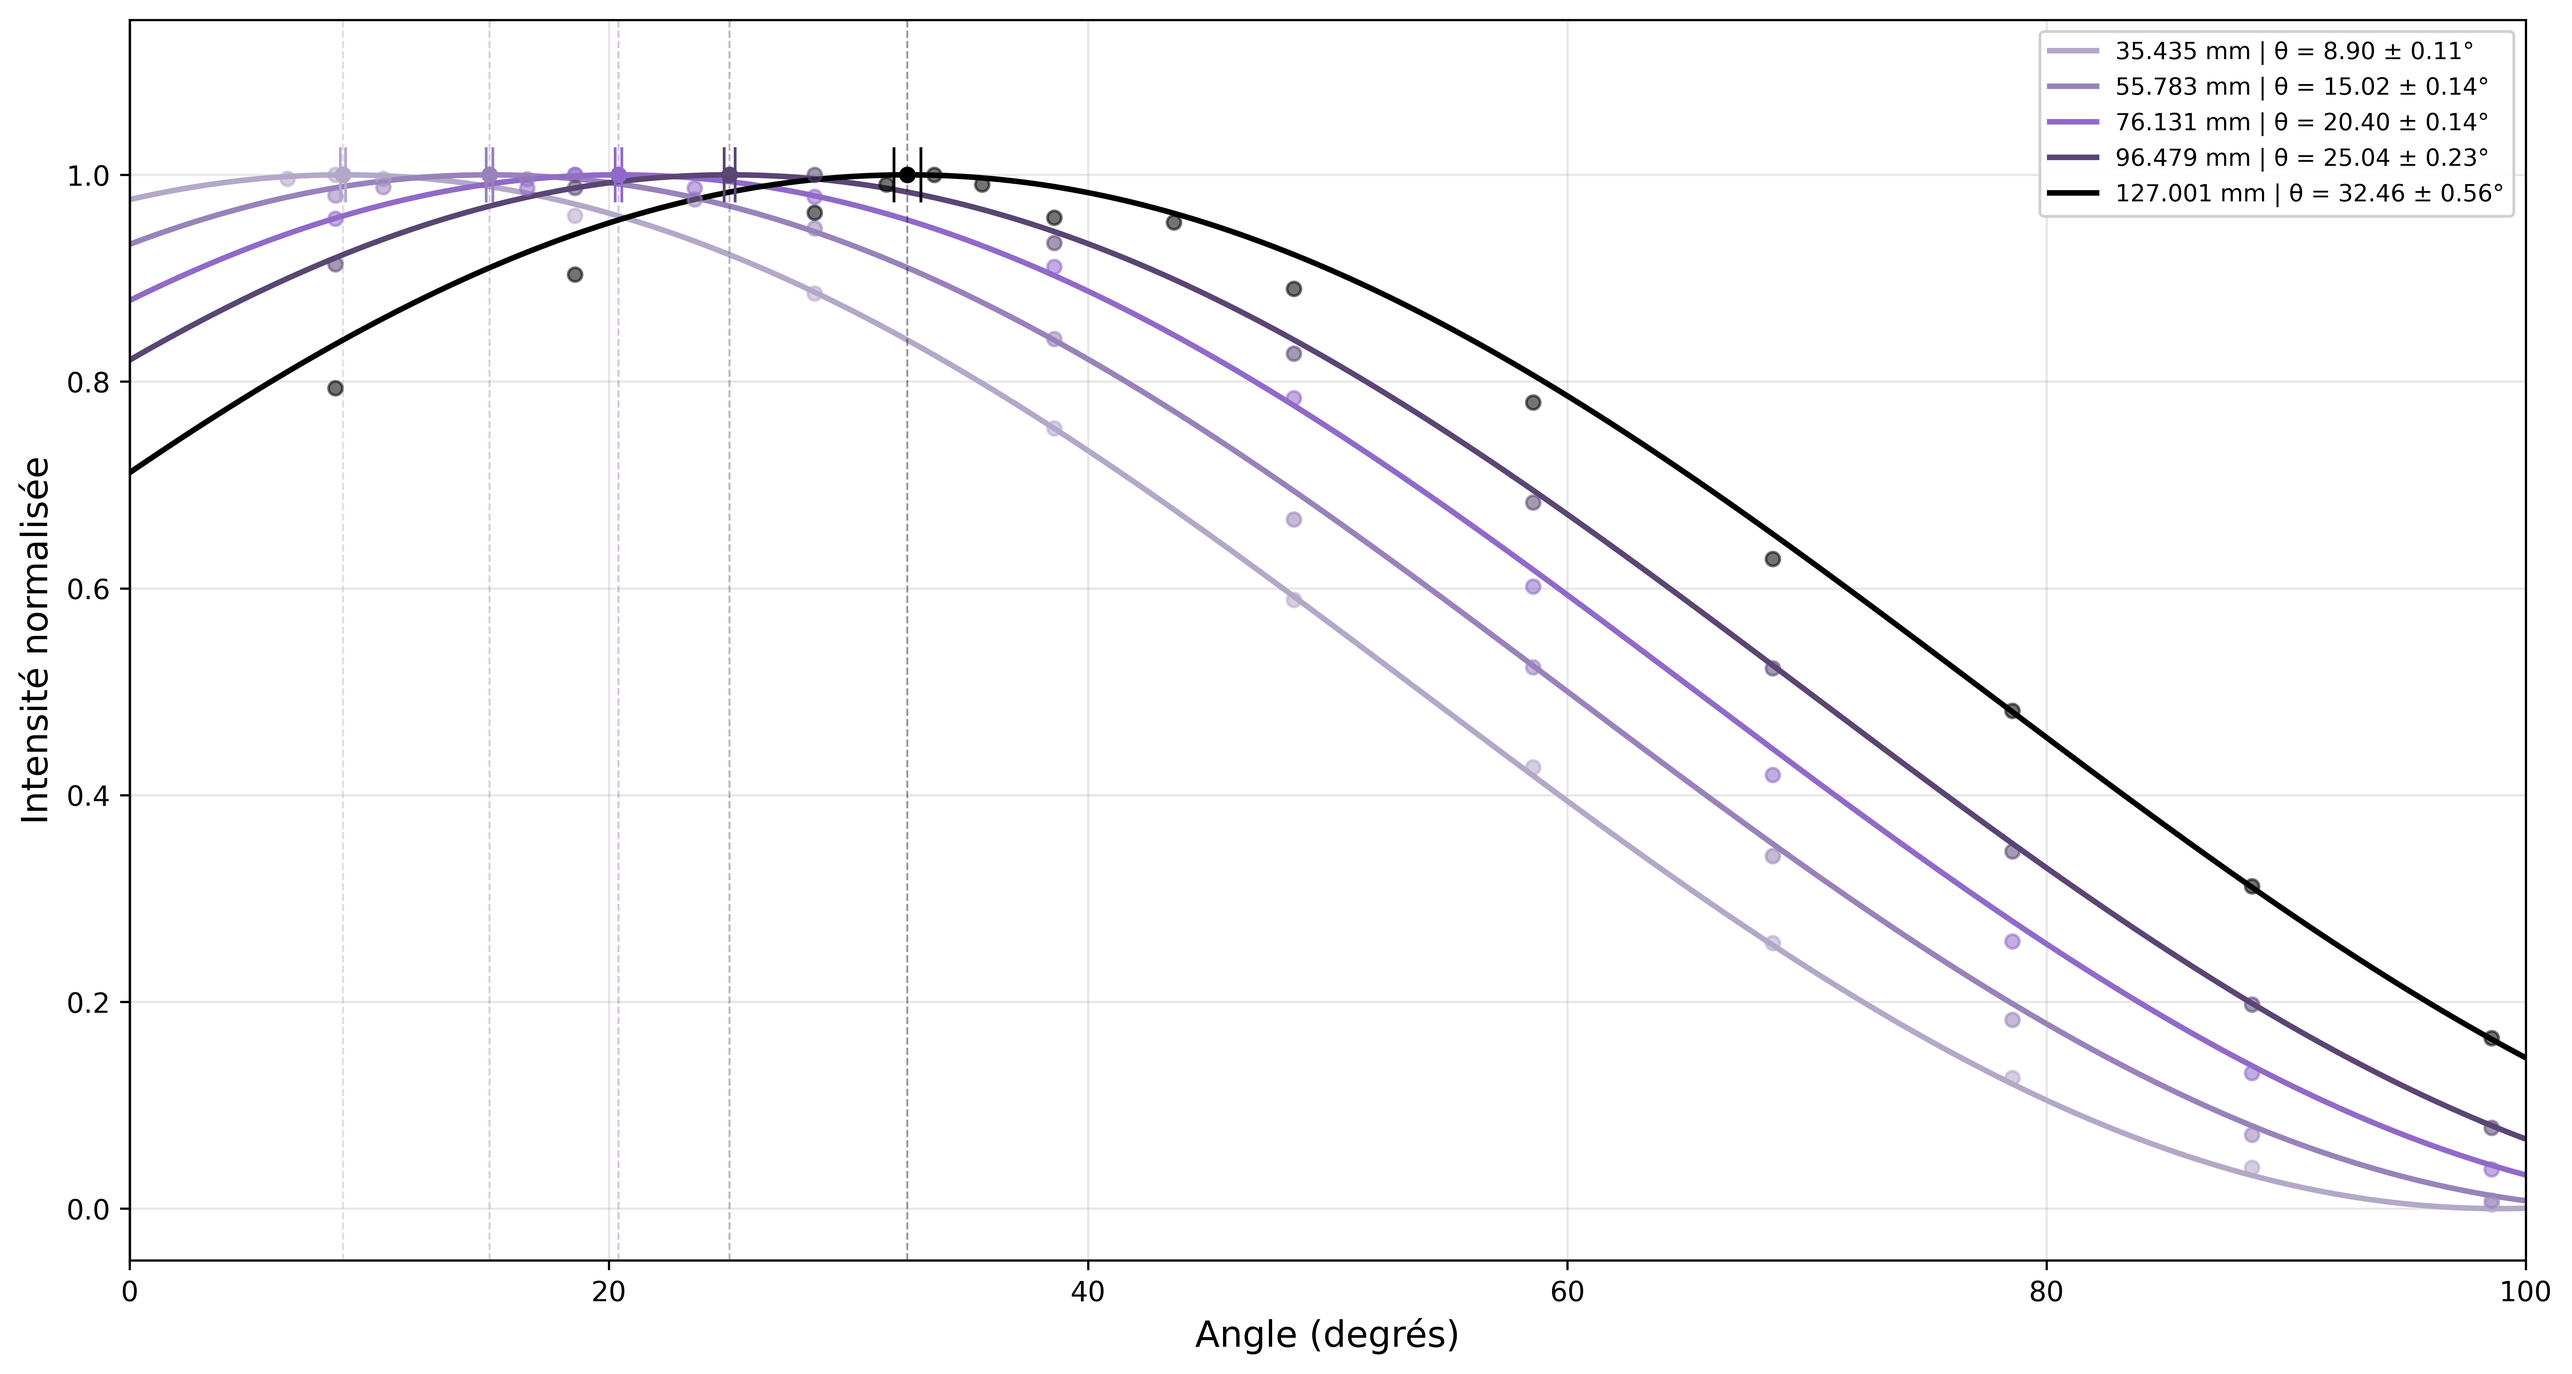
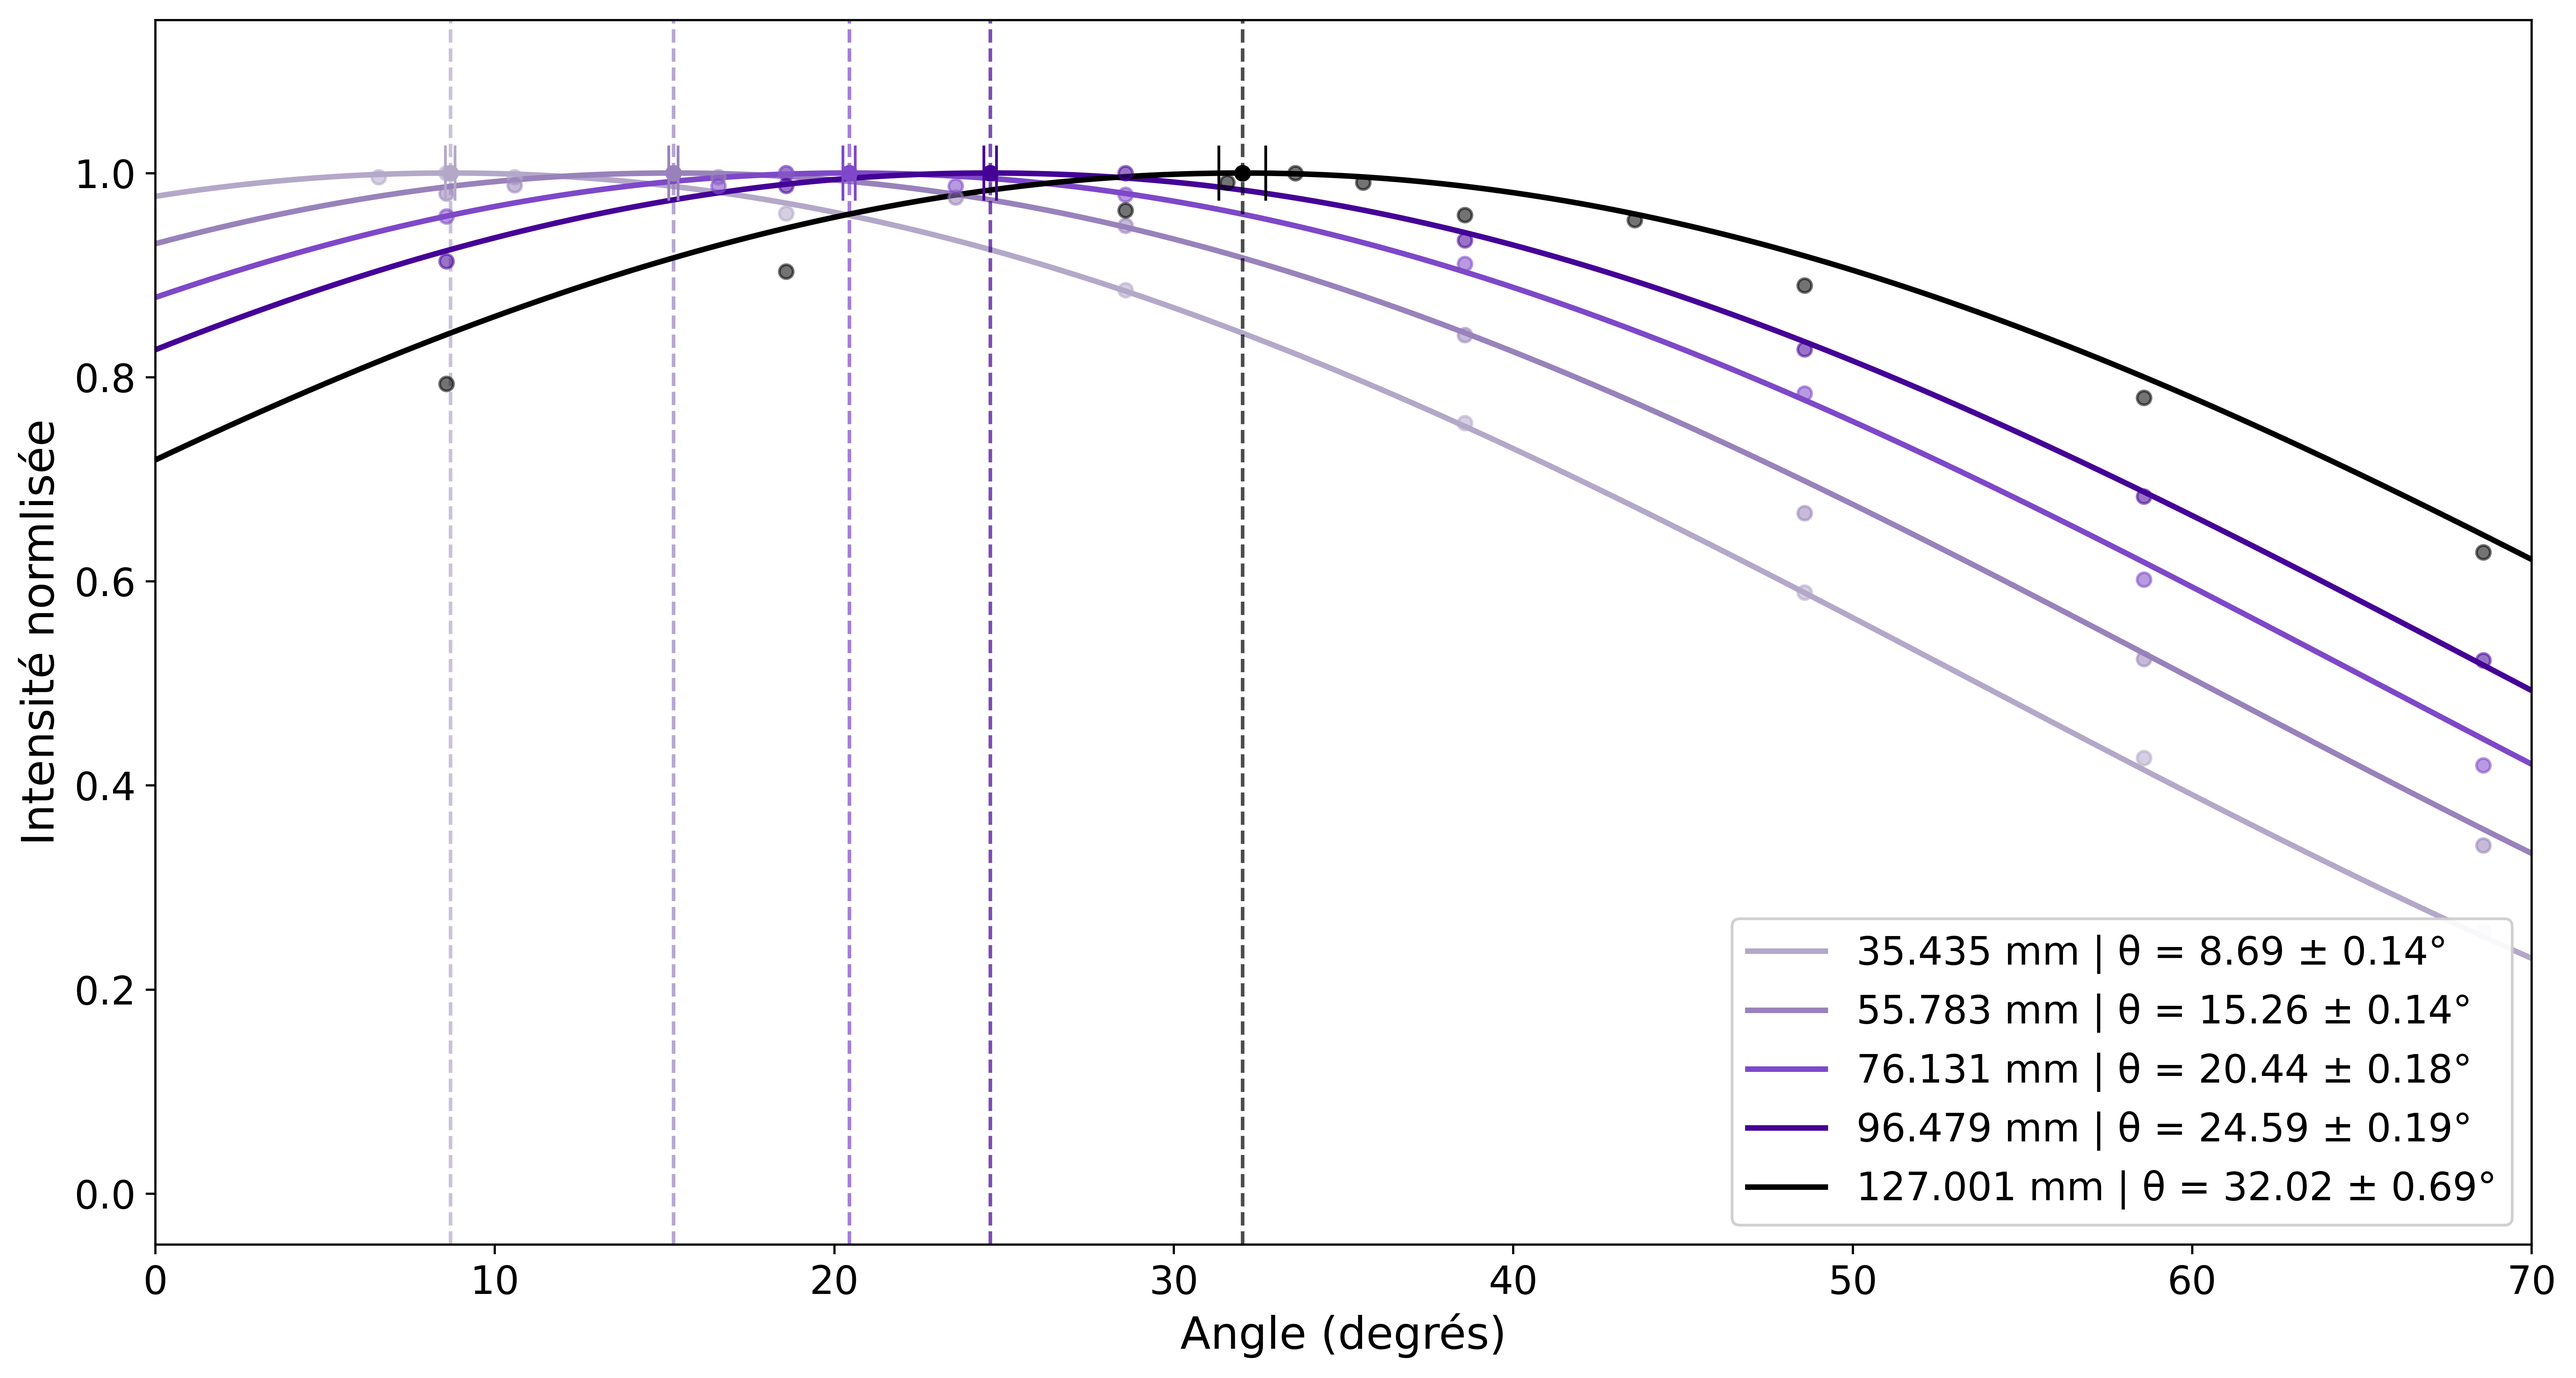
modifs esthetiques

diff --git a/Projet_2/glucose_comparaison.py b/Projet_2/glucose_comparaison.py
@@ -9,12 +9,12 @@ from scipy.optimize import curve_fit
 # ============================================================
 theta_zero = 67.42
 ANGLE_MIN  = 0
-ANGLE_MAX  = 100
+ANGLE_MAX  = 70
 sheet_name = "Essai1"
 longueur   = ["35.435 mm", "55.783 mm", "76.131 mm", "96.479 mm", "127.001 mm"]
 results    = []
 
-vec_col = ["#B4A8C9", "#9982BB", "#916AC9", "#5A4574", '#000000']
+vec_col = ["#B4A8C9", "#9982BB", "#7E48C9", "#450297", '#000000', "#FF5733"]
 
 # ============================================================
 # CHARGEMENT
@@ -131,19 +131,26 @@ for i, col in enumerate(longueur):
     y_smooth = sinusoidal_phi_only(x_smooth, phi)
 
     ax.plot(
-        x_smooth, y_smooth,
-        color=vec_col[i], linewidth=2,
-        label=f"{col} | θ = {x_max:.2f} ± {sigma_theta:.2f}°"
-    )
+            x_smooth,
+            y_smooth,
+            color=vec_col[i],
+            linewidth=2,
+            label=f"{col} | θ = {x_max:.2f} ± {sigma_theta:.2f}°"
+        )
 
-    ax.axvline(x_max, color=vec_col[i], linestyle='--', linewidth=0.7, alpha=0.4)
+    ax.axvline(x_max, color=vec_col[i], linestyle='--', linewidth=1.3, alpha=0.7)
 
+        # barres d'erreur
     ax.errorbar(
-        x_max, 1.0,
-        xerr=sigma_theta,
-        fmt='o', color=vec_col[i],
-        capsize=10, markersize=5, zorder=10
-    )
+            x_max,
+            1.0,
+            xerr=sigma_theta,
+            fmt='o',
+            color=vec_col[i],
+            capsize=10,
+            markersize=5,
+            zorder=10
+        )
 
     print(f"{col} | θ = {x_max:.2f} ± {sigma_theta:.2f}°")
     results.append({
@@ -155,13 +162,12 @@ for i, col in enumerate(longueur):
 # ============================================================
 # MISE EN PAGE
 # ============================================================
-ax.axvline(0, color='black', linewidth=1.2, linestyle='-', alpha=0.5)
-ax.set_xlabel("Angle (degrés)", fontsize=13)
-ax.set_ylabel("Intensité normalisée", fontsize=13)
+ax.set_xlabel("Angle (degrés)", fontsize=16)
+ax.set_ylabel("Intensité normlisée", fontsize=16)
+ax.tick_params(axis='both', labelsize=14)
 ax.set_xlim(ANGLE_MIN, ANGLE_MAX)
 ax.set_ylim(-0.05, 1.15)
-ax.legend(fontsize=8.5, loc='upper right', framealpha=0.92)
-ax.grid(True, alpha=0.3)
+ax.legend(fontsize=14, loc='lower right', framealpha=0.92)
 plt.tight_layout()
 
 

diff --git a/Projet_2/fructose_comparaison.py b/Projet_2/fructose_comparaison.py
@@ -5,19 +5,16 @@ import matplotlib.pyplot as plt
 from scipy.optimize import curve_fit
 
 
-# ============================================================
 # PARAMÈTRES
-# ============================================================
 theta_zero = 302.61
-ANGLE_MIN  = -75
-ANGLE_MAX  = 15
+ANGLE_MIN  = -90
+ANGLE_MAX  = 0
 
 longueurs = ['25.261 mm',  '50.696 mm', '76.131 mm', '101.566 mm', '127.001 mm'] 
 results = []
 
-vec_col = ["#B4A8C9", "#9982BB", "#916AC9", "#5A4574", '#000000', "#FF5733"]
+vec_col = ["#B4A8C9", "#9982BB", "#7E48C9", "#450297", '#000000', "#FF5733"]
 
-# ============================================================
 
 base_dir = os.path.dirname(os.path.abspath(__file__))
 excel_path = os.path.join(base_dir, "Projet_2_31_mars.xlsx")
@@ -122,10 +119,10 @@ for i, (longueur, col) in enumerate(colonnes_trouvees.items()):
             y_smooth,
             color=vec_col[i],
             linewidth=2,
-            label=f"{longueur} mm | θ = {x_max:.2f} ± {sigma_theta:.2f}°"
+            label=f"{longueur}| θ = {x_max:.2f} ± {sigma_theta:.2f}°"
         )
 
-        ax.axvline(x_max, color=vec_col[i], linestyle='--', linewidth=0.7, alpha=0.4)
+        ax.axvline(x_max, color=vec_col[i], linestyle='--', linewidth=1.3, alpha=0.7)
 
         # barres d'erreur
         ax.errorbar(
@@ -154,15 +151,15 @@ for i, (longueur, col) in enumerate(colonnes_trouvees.items()):
 # ============================================================
 # PLOT FINAL
 # ============================================================
-ax.axvline(0, color='black', linewidth=1.2, linestyle='-')
 
-ax.set_xlabel("Angle (degrés)", fontsize=13)
-ax.set_ylabel("Courant normalisé (u.a.)", fontsize=13)
+ax.set_xlabel("Angle (degrés)", fontsize=16)
+ax.set_ylabel("Intensité normlisée", fontsize=16)
+ax.tick_params(axis='both', labelsize=14)
 ax.set_xlim(ANGLE_MIN, ANGLE_MAX)
 ax.set_ylim(-0.05, 1.15)
 
-ax.legend(fontsize=8.5, loc='upper right', framealpha=0.92)
-ax.grid(True, alpha=0.3)
+ax.legend(fontsize=14, loc='upper left', framealpha=0.92)
+ax.grid(False, alpha=0.3)
 
 plt.tight_layout()
 

diff --git a/Projet_2/glucose_zéro.py b/Projet_2/glucose_zéro.py
@@ -71,9 +71,9 @@ x_smooth = np.linspace(ANGLE_MIN - 5, ANGLE_MAX + 5, 2000)
 y_smooth = sinusoidal(x_smooth, *popt)
 
 plt.figure(figsize=(10, 6))
-plt.scatter(x, y_norm, s=25, label="Données (vide)")
-plt.plot(x_smooth, y_smooth, linewidth=2, label=f"Fit | θ = {x_max:.2f}°")
-plt.axvline(x_max, linestyle='--')
+plt.scatter(x, y_norm, s=25, color='black')
+plt.plot(x_smooth, y_smooth, linewidth=2, label=f" $θ_{{max}}$ = {x_max:.2f}°", color='black')
+plt.axvline(x_max, linestyle='--', color='black')
 
 plt.xlabel("Angle (degrés)")
 plt.ylabel("Intensité normalisée")
